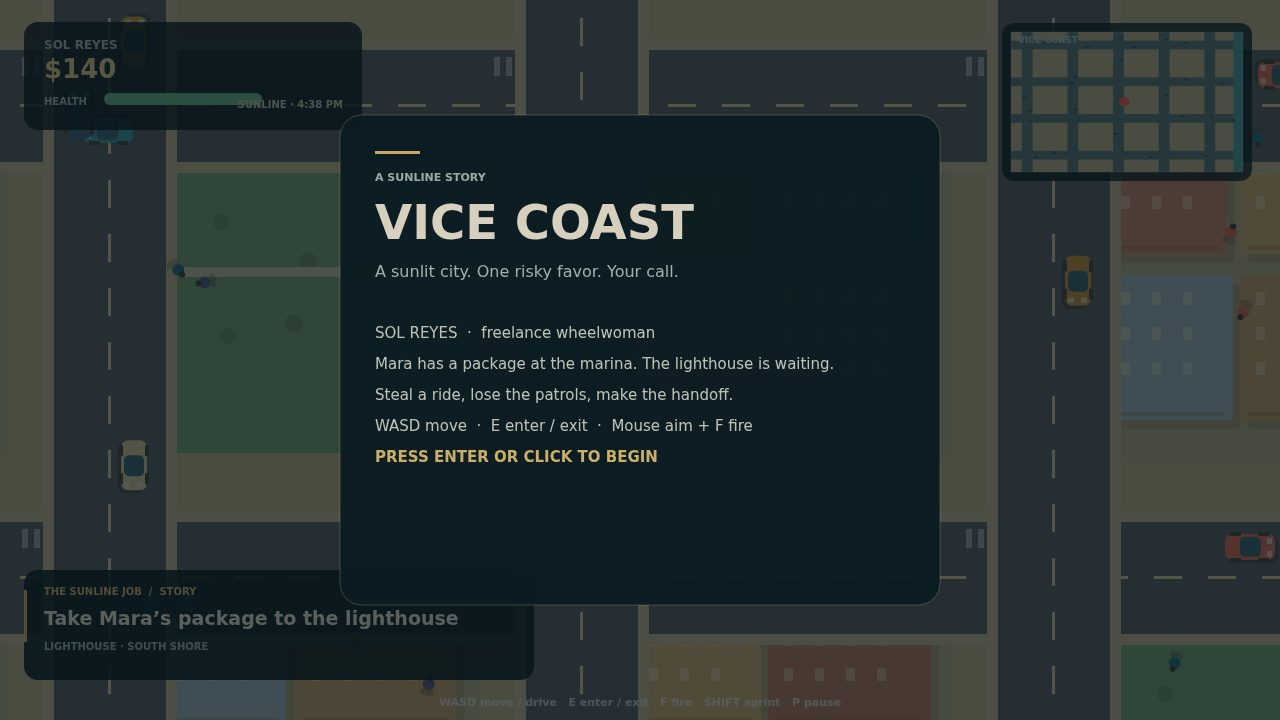
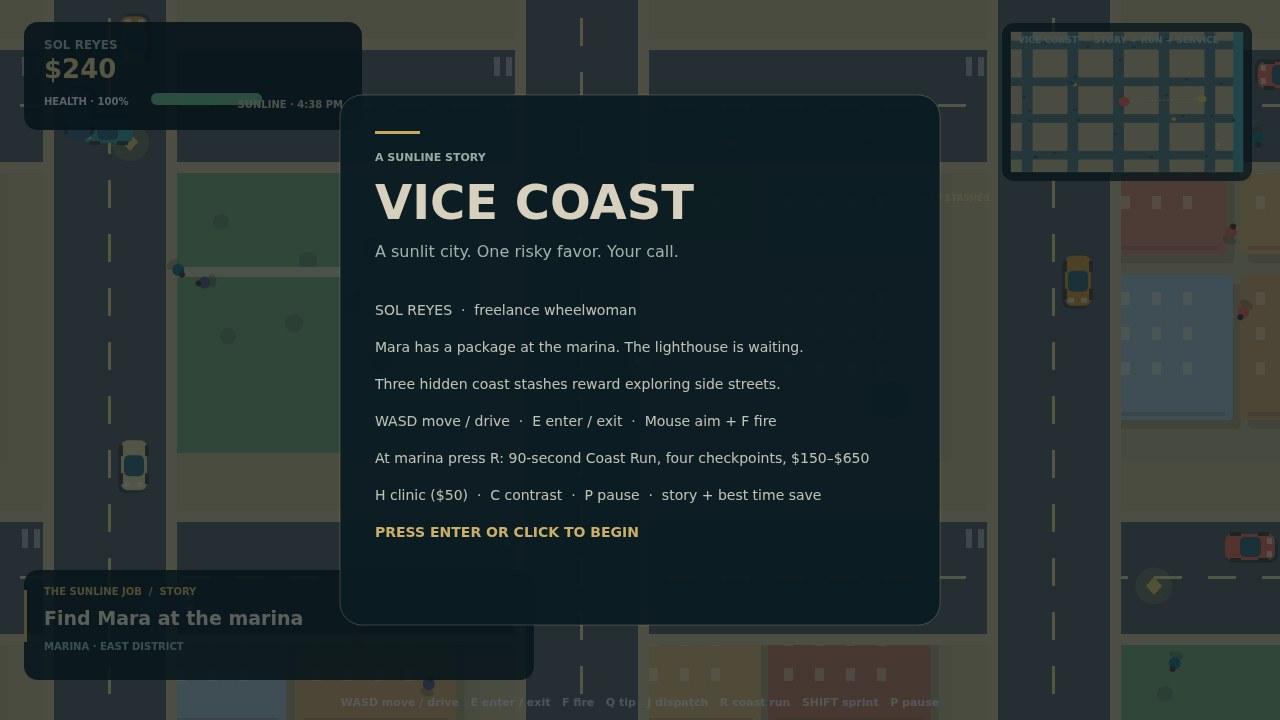
Add city dispatch missions and fresh gameplay captures

diff --git a/game/src/render.js b/game/src/render.js
@@ -35,23 +35,28 @@ export function createRenderer(canvas){
  function randColor(a,b,d,e){return ((a*7+b*13+d*5+e*3)%11)/11;}
  function drawCar(car,police=false){c.save();c.translate(car.x,car.y);c.rotate(car.angle);c.fillStyle='rgba(18,30,35,.3)';roundRect(c,-23,-10,51,26,7);c.fill();c.fillStyle=police?'#f3f0e4':car.color;roundRect(c,-25,-13,50,26,7);c.fill();c.fillStyle=police?'#334c65':'#456d78';roundRect(c,-10,-10,21,20,5);c.fill();c.fillStyle='rgba(235,246,218,.7)';c.fillRect(17,-9,5,6);c.fillRect(17,4,5,6);c.fillStyle='#51483b';c.fillRect(-20,-15,11,4);c.fillRect(8,-15,11,4);c.fillRect(-20,11,11,4);c.fillRect(8,11,11,4);if(police){c.fillStyle='#ec665b';c.fillRect(-2,-15,5,4);c.fillStyle='#4ca2cf';c.fillRect(3,-15,5,4);}c.restore();}
  function drawPerson(p,player=false,time=0,highContrast=false){c.save();c.translate(p.x,p.y);if(!player)c.rotate(p.angle);c.fillStyle='rgba(50,49,38,.24)';c.beginPath();c.ellipse(1,8,7,4,0,0,6.3);c.fill();c.fillStyle=player?'#f2eee2':['#e96e58','#2b7580','#deae54','#615f83'][Math.floor((p.phase||time)*3)%4];c.beginPath();c.arc(0,0,player?7:6,0,6.3);c.fill();c.fillStyle='#543e34';c.beginPath();c.arc(0,-6,3,0,6.3);c.fill();if(player){c.fillStyle='#f3d56e';c.beginPath();c.arc(0,0,highContrast?15:10,0,6.3);c.strokeStyle=highContrast?'#ffffff':'#fff0aa';c.lineWidth=highContrast?4:2;c.stroke();}c.restore();}
+ // Service pins pulse independently from story markers so color and shape both identify active work.
+ function drawDispatchPin(a,time){c.save();c.translate(a.x,a.y);const pulse=1+Math.sin(time*5)*.13;c.globalAlpha=.25;c.fillStyle=a.marker;c.beginPath();c.arc(0,0,27*pulse,0,6.3);c.fill();c.globalAlpha=1;c.fillStyle=a.marker;c.beginPath();c.moveTo(0,-20);c.lineTo(14,-5);c.lineTo(12,12);c.lineTo(0,23);c.lineTo(-12,12);c.lineTo(-14,-5);c.closePath();c.fill();c.fillStyle='#173039';c.font='800 12px system-ui';c.textAlign='center';c.fillText('!',0,6);c.restore();}
  function drawStash(a,time){c.save();c.translate(a.x,a.y);const pulse=1+Math.sin(time*4+a.value)*.12;c.globalAlpha=.92;c.fillStyle='rgba(255,217,112,.18)';c.beginPath();c.arc(0,0,20*pulse,0,6.3);c.fill();c.rotate(time*.45);c.fillStyle='#f4d26d';c.beginPath();c.moveTo(0,-9);c.lineTo(8,0);c.lineTo(0,9);c.lineTo(-8,0);c.closePath();c.fill();c.restore();}
- function minimap(s){const x=1002,y=23,ww=250,hh=158;c.fillStyle='rgba(9,24,31,.78)';roundRect(c,x,y,ww,hh,12);c.fill();c.save();c.beginPath();c.rect(x+9,y+9,ww-18,hh-18);c.clip();c.translate(x+9,y+9);c.scale((ww-18)/WORLD.w,(hh-18)/WORLD.h);c.fillStyle='#cfbd91';c.fillRect(0,0,WORLD.w,WORLD.h);c.fillStyle='#65807c';for(let i=0;i<5;i++)c.fillRect(0,112+i*472,WORLD.w,112);for(let i=0;i<6;i++)c.fillRect(112+i*472,0,112,WORLD.h);c.fillStyle='#55aaa9';c.fillRect(2300,0,100,1800);c.strokeStyle='rgba(249,211,119,.82)';c.lineWidth=13;c.setLineDash([24,16]);const goal=s.story===0?s.mara:s.story===1?s.drop:null;if(goal){c.beginPath();c.moveTo(s.player.x,s.player.y);c.lineTo(goal.x,goal.y);c.stroke();}const run=s.courier;if(run.phase==='active'){c.strokeStyle='rgba(255,139,94,.95)';c.lineWidth=15;c.setLineDash([20,12]);c.beginPath();c.moveTo(s.player.x,s.player.y);for(let i=run.checkpoint;i<run.route.length;i++)c.lineTo(run.route[i].x,run.route[i].y);c.stroke();}c.setLineDash([]);s.pickups.forEach(a=>{if(!a.found){c.fillStyle='#f4d26d';c.fillRect(a.x-20,a.y-20,40,40);}});c.fillStyle='#315c79';s.cars.forEach(a=>c.fillRect(a.x-18,a.y-12,36,24));c.fillStyle='#f4e7a1';s.police.forEach(a=>{c.beginPath();c.arc(a.x,a.y,36,0,6.3);c.fill();});if(goal){c.fillStyle='#f4d26d';c.beginPath();c.arc(goal.x,goal.y,46,0,6.3);c.fill();}if(run.phase==='active'){const gate=run.route[run.checkpoint];if(gate){c.fillStyle='#ff895e';c.beginPath();c.arc(gate.x,gate.y,54,0,6.3);c.fill();}}c.fillStyle='#ff6658';c.beginPath();c.arc(s.player.x,s.player.y,57,0,6.3);c.fill();c.restore();c.strokeStyle='rgba(255,255,255,.18)';c.lineWidth=1;c.strokeRect(x+9,y+9,ww-18,hh-18);text('VICE COAST  ·  STORY + RUN',x+16,y+20,9,'#b6d5cc','left',800);}
+ function minimap(s){const x=1002,y=23,ww=250,hh=158;c.fillStyle='rgba(9,24,31,.78)';roundRect(c,x,y,ww,hh,12);c.fill();c.save();c.beginPath();c.rect(x+9,y+9,ww-18,hh-18);c.clip();c.translate(x+9,y+9);c.scale((ww-18)/WORLD.w,(hh-18)/WORLD.h);c.fillStyle='#cfbd91';c.fillRect(0,0,WORLD.w,WORLD.h);c.fillStyle='#65807c';for(let i=0;i<5;i++)c.fillRect(0,112+i*472,WORLD.w,112);for(let i=0;i<6;i++)c.fillRect(112+i*472,0,112,WORLD.h);c.fillStyle='#55aaa9';c.fillRect(2300,0,100,1800);c.strokeStyle='rgba(249,211,119,.82)';c.lineWidth=13;c.setLineDash([24,16]);const goal=s.story===0?s.mara:s.story===1?s.drop:null;if(goal){c.beginPath();c.moveTo(s.player.x,s.player.y);c.lineTo(goal.x,goal.y);c.stroke();}const dispatch=s.dispatch,call=dispatch.active;if(call){const target=call.kind==='medical'?call.pickup:call;c.strokeStyle='rgba(255,255,255,.8)';c.lineWidth=13;c.setLineDash([20,14]);c.beginPath();c.moveTo(s.player.x,s.player.y);c.lineTo(target.x,target.y);c.stroke();c.setLineDash([]);c.fillStyle=call.marker;c.beginPath();c.arc(target.x,target.y,52,0,6.3);c.fill();}
+ const run=s.courier;if(run.phase==='active'){c.strokeStyle='rgba(255,139,94,.95)';c.lineWidth=15;c.setLineDash([20,12]);c.beginPath();c.moveTo(s.player.x,s.player.y);for(let i=run.checkpoint;i<run.route.length;i++)c.lineTo(run.route[i].x,run.route[i].y);c.stroke();}c.setLineDash([]);s.pickups.forEach(a=>{if(!a.found){c.fillStyle='#f4d26d';c.fillRect(a.x-20,a.y-20,40,40);}});if(s.pulseTarget&&s.pulseTime>0){c.strokeStyle='#fff3a6';c.lineWidth=34;c.beginPath();c.arc(s.pulseTarget.x,s.pulseTarget.y,48,0,6.3);c.stroke();}c.fillStyle='#315c79';s.cars.forEach(a=>c.fillRect(a.x-18,a.y-12,36,24));c.fillStyle='#f4e7a1';s.police.forEach(a=>{c.beginPath();c.arc(a.x,a.y,36,0,6.3);c.fill();});if(s.dispatch.active){const d=s.dispatch.active,target=d.kind==='medical'?d.pickup:d;c.fillStyle=d.marker;c.beginPath();c.arc(target.x,target.y,50,0,6.3);c.fill();}if(goal){c.fillStyle='#f4d26d';c.beginPath();c.arc(goal.x,goal.y,46,0,6.3);c.fill();}if(run.phase==='active'){const gate=run.route[run.checkpoint];if(gate){c.fillStyle='#ff895e';c.beginPath();c.arc(gate.x,gate.y,54,0,6.3);c.fill();}}c.fillStyle='#ff6658';c.beginPath();c.arc(s.player.x,s.player.y,57,0,6.3);c.fill();c.restore();c.strokeStyle='rgba(255,255,255,.18)';c.lineWidth=1;c.strokeRect(x+9,y+9,ww-18,hh-18);text('VICE COAST  ·  STORY + RUN + SERVICE',x+16,y+20,9,'#b6d5cc','left',800);}
  function drawHud(s){const p=s.player,contrast=s.highContrast;c.fillStyle=contrast?'#000':'rgba(12,25,31,.92)';roundRect(c,24,22,338,108,14);c.fill();if(contrast){c.strokeStyle='#fff';c.lineWidth=2;c.stroke();}text('SOL REYES',44,49,12,'#b4c7c0','left',800);text('$'+p.cash.toLocaleString(),44,78,26,'#f4dc92','left',750);text(`HEALTH · ${Math.ceil(p.health)}%`,44,105,10,'#fff','left',700);c.fillStyle='#2b454a';roundRect(c,151,93,111,12,6);c.fill();c.fillStyle=p.health<35?'#ef6859':'#77c28f';roundRect(c,151,93,111*p.health/100,12,6);c.fill();text('SUNLINE · 4:38 PM',343,108,10,'#d6d0b6','right',600);
   if(s.heat>0){text(`WANTED · ${s.heat}/5`,1148,214,12,'#fff','right',800);for(let i=0;i<5;i++)text('✦',1162+i*19,238,18,i<s.heat?'#ff755e':'#8b9998','center',700);}
   c.fillStyle='rgba(14,29,35,.9)';roundRect(c,24,570,510,110,14);c.fill();c.fillStyle='#eebf66';c.fillRect(24,590,3,52);text(s.missionDone?'THE SUNLINE JOB  /  COMPLETE':'THE SUNLINE JOB  /  STORY',44,595,10,'#e8bd72','left',800);text(s.missionText,44,625,19,'#fff6df','left',700);text(s.story===0?'MARINA · EAST DISTRICT':'LIGHTHOUSE · SOUTH SHORE',44,650,10,'#a9c6bc','left',600);
+  if(s.dispatch.active){const d=s.dispatch.active,target=d.kind==='medical'?d.pickup:d;drawDispatchPin(target,s.clock);}
   const unclaimed=s.pickups.filter(a=>!a.found).length;text(`${unclaimed} COAST STASH${unclaimed===1?'':'ES'}`,990,201,9,'#f3d98d','right',750);
+  const call=s.dispatch.active;if(call){const target=call.kind==='medical'?call.pickup:call,left=Math.max(0,call.remaining),distance=Math.round(Math.hypot(target.x-p.x,target.y-p.y));c.fillStyle=contrast?'#000':'rgba(14,43,45,.97)';roundRect(c,390,91,500,76,12);c.fill();if(contrast){c.strokeStyle='#fff';c.lineWidth=2;c.stroke();}text(`CITY DISPATCH · ${left.toFixed(0)}s · ${distance}m · $${call.payout}`,640,118,12,call.marker,'center',800);text(call.kind==='witness'?`${call.brief} · ${Math.min(12,call.serviceTime).toFixed(1)}/12s`:call.brief,640,148,16,'#fff1dc','center',700);}else if(s.screen==='play'){const complete=Object.values(s.dispatch.completed).reduce((sum,n)=>sum+n,0),cooling=Object.values(s.dispatch.cooldowns).some(t=>t>0);c.fillStyle=contrast?'#000':'rgba(14,43,45,.9)';roundRect(c,456,91,368,46,11);c.fill();if(contrast){c.strokeStyle='#fff';c.lineWidth=2;c.stroke();}text(`J  ${cooling?'REQUEST CITY CALL  ·  SOME LINES COOLING':'REQUEST CITY DISPATCH'}  ·  ${complete} COMPLETE`,640,120,11,'#c6e7dc','center',750);}
   const run=s.courier;if(run.phase==='active'){const gate=run.route[run.checkpoint],left=Math.max(0,90-run.elapsed),payout=Math.max(150,Math.round(650-run.elapsed*8));c.fillStyle=contrast?'#000':'rgba(47,24,24,.96)';roundRect(c,390,91,500,76,12);c.fill();if(contrast){c.strokeStyle='#fff';c.lineWidth=2;c.stroke();}text(`COAST RUN · ${left.toFixed(1)}s LEFT · $${payout} IF FINISHED NOW`,640,118,12,'#fff','center',800);text(`CHECKPOINT ${run.checkpoint+1}/${run.route.length} · ${gate?.name||'Finish'}`,640,148,18,'#fff1dc','center',700);}else if(Math.hypot(p.x-s.anchor.x,p.y-s.anchor.y)<100){text(run.phase==='done'?`R  REPLAY COAST RUN  ·  BEST ${run.best.toFixed(1)}s`:'R  START COAST RUN  ·  90 SECOND DELIVERY',640,539,13,'#ffc18e','center',800);}
   if(s.toastTime>0){c.fillStyle='rgba(19,37,42,.92)';roundRect(c,390,30,500,48,12);c.fill();text(s.toast,640,60,15,'#fff0cd','center',650);}
   if(p.inCar>=0){c.fillStyle='rgba(13,28,34,.8)';roundRect(c,24,145,175,52,12);c.fill();text('ROADSTER  ·  '+Math.round(Math.abs(s.cars[p.inCar].speed))+' MPH',42,177,12,'#fff1d7','left',750);}
-  minimap(s);text('WASD move / drive   E enter / exit   F fire   R coast run at marina   SHIFT sprint   P pause',640,706,11,'rgba(255,255,255,.72)','center',550);
+  minimap(s);text('WASD move / drive   E enter / exit   F fire   Q tip   J dispatch   R coast run   SHIFT sprint   P pause',640,706,11,'rgba(255,255,255,.72)','center',550);
  }
  function panel(title,sub,rows){c.fillStyle='rgba(7,20,27,.60)';c.fillRect(0,0,1280,720);c.fillStyle='rgba(12,29,36,.95)';roundRect(c,340,95,600,530,22);c.fill();c.strokeStyle='rgba(242,212,153,.28)';c.lineWidth=1;c.stroke();c.fillStyle='#efc46f';c.fillRect(375,131,45,3);text('A SUNLINE STORY',375,161,11,'#b8c8bb','left',800);text(title,375,219,48,'#fff5de','left',800);text(sub,375,257,16,'#bdd0c7','left',500);rows.forEach((r,i)=>text(r,375,315+i*37,14,i===rows.length-1?'#f1cc78':'#e2e4d5','left',i===rows.length-1?700:500));}
  function draw(game){const s=game.state,p=s.player;const camX=clamp(p.x-640,0,WORLD.w-1280),camY=clamp(p.y-360,0,WORLD.h-720);c.setTransform(dpr*scale,0,0,dpr*scale,(w-1280*scale)*dpr/2,(h-720*scale)*dpr/2);c.fillStyle='#b8a478';c.fillRect(0,0,1280,720);c.save();c.translate(-camX,-camY);worldMap(s,{x:camX,y:camY});
    // landmarks
    c.fillStyle='#f4e4b1';roundRect(c,1152,1510,92,70,10);c.fill();text('MARINA',1198,1552,11,'#436361','center',800);c.fillStyle='#fae6aa';c.beginPath();c.arc(2160,1660,29,0,6.3);c.fill();c.fillStyle='#e18459';c.fillRect(2155,1638,10,30);c.fillStyle='#f5e3b2';text('LIGHTHOUSE',2160,1705,10,'#345d5f','center',800);
    const goal=s.story===0?s.mara:s.story===1?s.drop:null;if(goal){const pulse=22+Math.sin(s.clock*3)*5;c.strokeStyle='#f7d175';c.lineWidth=3;c.beginPath();c.arc(goal.x,goal.y,pulse,0,6.3);c.stroke();c.fillStyle='rgba(245,204,104,.16)';c.beginPath();c.arc(goal.x,goal.y,pulse+8,0,6.3);c.fill();}
-   s.pickups.forEach(a=>{if(!a.found)drawStash(a,s.clock);});s.cars.forEach((a,i)=>drawCar(a));s.people.forEach(a=>{if(a.alive)drawPerson(a,false,s.clock);});s.police.forEach(a=>{drawCar(a,true);const flash=(Math.floor(s.clock*5)%2===0);c.fillStyle=flash?'rgba(255,85,75,.22)':'rgba(73,174,224,.2)';c.beginPath();c.arc(a.x,a.y,29,0,6.3);c.fill();});s.shots.forEach(b=>{c.fillStyle='#ffe48c';c.beginPath();c.arc(b.x,b.y,4,0,6.3);c.fill();});if(p.inCar<0){if(p.invuln<=0||Math.floor(s.clock*14)%2===0)drawPerson(p,true,s.clock,s.highContrast);}c.restore();
+   s.pickups.forEach(a=>{if(!a.found)drawStash(a,s.clock);});if(s.pulseTarget&&s.pulseTime>0){const a=s.pulseTarget,r=34+Math.sin(s.clock*7)*7;c.strokeStyle='rgba(255,232,148,.9)';c.lineWidth=4;c.beginPath();c.arc(a.x,a.y,r,0,6.3);c.stroke();c.strokeStyle='rgba(255,232,148,.35)';c.lineWidth=2;c.beginPath();c.arc(a.x,a.y,r+11,0,6.3);c.stroke();}s.cars.forEach((a,i)=>drawCar(a));s.people.forEach(a=>{if(a.alive)drawPerson(a,false,s.clock);});s.police.forEach(a=>{drawCar(a,true);const flash=(Math.floor(s.clock*5)%2===0);c.fillStyle=flash?'rgba(255,85,75,.22)':'rgba(73,174,224,.2)';c.beginPath();c.arc(a.x,a.y,29,0,6.3);c.fill();});s.shots.forEach(b=>{c.fillStyle='#ffe48c';c.beginPath();c.arc(b.x,b.y,4,0,6.3);c.fill();});if(p.inCar<0){if(p.invuln<=0||Math.floor(s.clock*14)%2===0)drawPerson(p,true,s.clock,s.highContrast);}c.restore();
    drawHud(s);if(s.highContrast){c.strokeStyle='#fff';c.lineWidth=2;c.strokeRect(18,16,1244,688);text('HIGH CONTRAST · C TO TOGGLE',640,24,10,'#fff','center',800);}if(s.screen==='title')panel('VICE COAST','A sunlit city. One risky favor. Your call.', ['SOL REYES  ·  freelance wheelwoman','Mara has a package at the marina. The lighthouse is waiting.','Three hidden coast stashes reward exploring side streets.','WASD move / drive  ·  E enter / exit  ·  Mouse aim + F fire','At marina press R: 90-second Coast Run, four checkpoints, $150–$650','H clinic ($50)  ·  C contrast  ·  P pause  ·  story + best time save','PRESS ENTER OR CLICK TO BEGIN']);if(s.screen==='paused')panel('PAUSED','The coast can wait.', ['Your position, cash and discoveries are saved on this device.','Coast Run: press R at marina; follow the orange checkpoints before time runs out.','Press P, ENTER or click to return to the city.  ESC returns to title.']);if(s.screen==='title'||s.screen==='paused'){c.fillStyle='rgba(8,20,26,.16)';c.fillRect(0,0,1280,720);}
  }
  return {draw,resize};

diff --git a/game/src/world.js b/game/src/world.js
@@ -23,19 +23,34 @@ export function makeWorld() {
     const c={x:horizontal?rand(i+90)*WORLD.w:112+lane*472+(i%3?80:25), y:horizontal?112+lane*472+(i%3?80:25):rand(i+30)*WORLD.h,
       angle:horizontal?(i%4<2?0:Math.PI):(i%4<2?Math.PI/2:-Math.PI/2), speed:36+rand(i+3)*34, color:['#ef6f58','#e9d49d','#43a6a6','#4b6481','#c7c5bb','#d99a3b'][i%6], type:i%5===0?'van':'car', driver:true, stolen:false, bump:0}; cars.push(c);
   }
-  const state={player,cars,people,police,shots,pickups,heat:0,heatTimer:0,policeEvaded:false,story:0,missionText:'Find Mara at the marina',missionDone:false,clock:0,toast:'',toastTime:0,paused:false,screen:'title',seed:1,highContrast:false};
+  // Stable procedural offsets keep each caller on a different block while preserving reproducible offline saves.
+  const callSpot=(seed,roadX,roadY)=>({x:clamp(roadX+18+rand(seed)*66,20,WORLD.w-20),y:clamp(roadY+18+rand(seed+3)*66,20,WORLD.h-20)});
+  const stranded=callSpot(41,112+472,112+472),medical=callSpot(53,112+472*3,112+472*2),witness=callSpot(67,112+472*4,112+472*3);
+  const dispatchCalls=[
+    {id:'stranded',name:'Stranded driver',brief:'Jump-start the stranded driver',kind:'service',...stranded,marker:'#f3c866',payout:180,cooldown:60,deadline:75},
+    {id:'medical',name:'Medical pickup',brief:'Reach the injured caller',kind:'medical',...medical,pickup:{x:medical.x+78,y:medical.y},marker:'#77d6c2',payout:260,cooldown:75,deadline:90},
+    {id:'witness',name:'Street race witness',brief:'Stay with the witness for 12 seconds',kind:'witness',...witness,marker:'#f08b69',payout:320,cooldown:90,deadline:70},
+  ];
+  const state={player,cars,people,police,shots,pickups,dispatch:{calls:dispatchCalls,active:null,cooldowns:{},completed:{}},heat:0,heatTimer:0,policeEvaded:false,story:0,missionText:'Find Mara at the marina',missionDone:false,clock:0,toast:'',toastTime:0,paused:false,screen:'title',seed:1,highContrast:false,pulseCooldown:0,pulseTime:0,pulseTarget:null};
   state.anchor={x:1196,y:1550}; state.drop={x:2160,y:1660}; state.mara={x:1975,y:860};
   state.courier={phase:'ready',startedAt:0,elapsed:0,best:0,reward:0,checkpoint:0,
     route:[{x:1196,y:1550,name:'Marina gate'},{x:1720,y:1360,name:'Canal bend'},{x:2145,y:1450,name:'Lighthouse road'},{x:2160,y:1660,name:'Beacon steps'}]};
+  // Dispatch is deliberately local: accept a radio call with J, then follow its world/minimap marker.
+  function requestDispatch(){const d=state.dispatch;if(d.active){message(`${d.active.name} · ${Math.ceil(d.active.remaining)}s remaining`);return;}const choices=d.calls.filter(call=>(d.cooldowns[call.id]||0)<=0);if(!choices.length){message('Dispatch channel cooling down · check back shortly.');return;}const call=choices[(Math.floor(state.clock/17)+Object.keys(d.completed).length)%choices.length];d.active={...call,remaining:call.deadline,serviceTime:0};message(`DISPATCH · ${call.name}: ${call.brief}`,4);}
   function message(s,t=3){state.toast=String(s);state.toastTime=Math.max(0,Number.isFinite(t)?t:3);}
   function beginCourier(){const run=state.courier;if(dist(player,state.anchor)>100){message('Coast Run starts at the marina gate.');return;}if(run.phase==='active'){const next=run.route[run.checkpoint];message(next?`Next checkpoint: ${next.name}`:'Coast Run is finishing.');return;}run.phase='active';run.startedAt=state.clock;run.elapsed=0;run.checkpoint=0;run.reward=0;message('COAST RUN · hit each gold checkpoint in order',4);}
+  function pulse(){if(state.pulseCooldown>0){message(`Streetwise pulse recharges in ${Math.ceil(state.pulseCooldown)}s`,1.5);return;}const target=pickups.filter(a=>!a.found).sort((a,b)=>dist(player,a)-dist(player,b))[0];if(!target){message('No coast stashes left to find.');return;}state.pulseTarget=target;state.pulseTime=8;state.pulseCooldown=24;message(`Local tip: ${target.label} is ${Math.round(dist(player,target))}m away · follow the gold ring`,3);}
   function nearestCar(max=58){let best=-1,bd=max;cars.forEach((c,i)=>{if(i===player.inCar)return;const d=dist(player,c);if(d<bd){bd=d;best=i;}});return best;}
   function enterExit(){const p=player;if(p.inCar>=0){const c=cars[p.inCar];p.x=c.x+Math.cos(c.angle+Math.PI/2)*35;p.y=c.y+Math.sin(c.angle+Math.PI/2)*35;c.driver=false;p.inCar=-1;message('On foot. Stay sharp.');return;}
     const i=nearestCar();if(i<0){message('Get closer to a vehicle.');return;}const c=cars[i];p.inCar=i;c.driver=true;p.angle=c.angle;if(!c.stolen){c.stolen=true;raiseHeat(1);message('Vehicle acquired · heat rising');}else message('Back behind the wheel.');}
   function raiseHeat(n){state.heat=clamp(state.heat+n,0,5);state.heatTimer=18;state.policeEvaded=false;}
   function fire(){const p=player;if(p.inCar>=0){message('Exit the vehicle to aim.');return;}if(shots.length>=8){message('Let the last shot clear before firing again.',1.4);return;}const target=globalThis.__aim||{x:p.x+Math.cos(p.angle)*300,y:p.y+Math.sin(p.angle)*300};const a=Math.atan2(target.y-p.y,target.x-p.x);p.angle=a;shots.push({x:p.x+Math.cos(a)*20,y:p.y+Math.sin(a)*20,vx:Math.cos(a)*560,vy:Math.sin(a)*560,life:1});raiseHeat(1);message('Shot fired · police alerted',2);}
-  function update(dt,input={}){dt=Number.isFinite(dt)?clamp(dt,0,.05):0;const s=state,p=player;input??={};s.clock+=dt;if(s.toastTime>0)s.toastTime=Math.max(0,s.toastTime-dt);if(p.invuln>0)p.invuln=Math.max(0,p.invuln-dt);
+  function update(dt,input={}){dt=Number.isFinite(dt)?clamp(dt,0,.05):0;const s=state,p=player;input??={};s.clock+=dt;if(s.toastTime>0)s.toastTime=Math.max(0,s.toastTime-dt);if(p.invuln>0)p.invuln=Math.max(0,p.invuln-dt);s.pulseCooldown=Math.max(0,s.pulseCooldown-dt);Object.keys(s.dispatch.cooldowns).forEach(id=>s.dispatch.cooldowns[id]=Math.max(0,s.dispatch.cooldowns[id]-dt));s.pulseTime=Math.max(0,s.pulseTime-dt);if(s.pulseTime===0)s.pulseTarget=null;
     const run=s.courier;if(run.phase==='active'){run.elapsed=s.clock-run.startedAt;const gate=run.route[run.checkpoint];if(gate&&dist(p,gate)<58){run.checkpoint++;if(run.checkpoint===run.route.length){run.phase='done';run.best=run.best?Math.min(run.best,run.elapsed):run.elapsed;run.reward=Math.max(150,Math.round(650-run.elapsed*8));p.cash+=run.reward;message(`COAST RUN COMPLETE · ${run.elapsed.toFixed(1)}s · $${run.reward} paid`,5);}else message(`CHECKPOINT ${run.checkpoint}/${run.route.length} · ${run.route[run.checkpoint].name}`,2.5);}if(run.phase==='active'&&run.elapsed>=90){run.phase='ready';run.elapsed=0;run.checkpoint=0;message('Coast run timed out · press R at the marina to retry',4);}}
+    // Dispatch deadlines run on the same fixed-step clock as driving and story objectives.
+    const call=s.dispatch.active;if(call){call.remaining-=dt;const target=call.kind==='medical'?call.pickup:call;if(call.kind==='witness')call.serviceTime=dist(p,target)<68?call.serviceTime+dt:0;else if(call.kind==='service'&&dist(p,target)<56)call.serviceTime=1;else if(call.kind==='medical'&&dist(p,target)<62)call.serviceTime=1;
+      if(call.serviceTime>= (call.kind==='witness'?12:1)){const reward=call.payout;p.cash+=reward;s.dispatch.completed[call.id]=(s.dispatch.completed[call.id]||0)+1;s.dispatch.cooldowns[call.id]=call.cooldown;s.dispatch.active=null;message(`${call.name.toUpperCase()} COMPLETE · $${reward} paid`,5);}
+      else if(call.remaining<=0){s.dispatch.cooldowns[call.id]=Math.max(30,call.cooldown/2);s.dispatch.active=null;message(`${call.name} timed out · call back after cooldown`,4);}}
     if(s.heat>0&&s.policeEvaded){s.heatTimer-=dt;if(s.heatTimer<=0){s.heat=Math.max(0,s.heat-1);s.heatTimer=10;if(s.heat)message('Stay quiet · wanted level falling.',2);else{s.policeEvaded=false;message('Police heat cleared.',3);}}}
     if(s.heat>0&&!s.policeEvaded&&s.police.length<Math.min(5,Math.ceil(s.heat))&&s.clock%4<dt){const a=s.clock*1.9;police.push({x:clamp(p.x+Math.cos(a)*520,40,WORLD.w-40),y:clamp(p.y+Math.sin(a)*430,40,WORLD.h-40),angle:a+Math.PI,speed:104+14*s.heat,flash:s.clock,lostTime:0});}
     people.forEach((n,i)=>{if(!n.alive)return;n.phase+=dt;if(p.inCar>=0&&dist(n,p)<24){n.alive=false;raiseHeat(1);message('Pedestrian struck · wanted level increased');p.health=Math.max(10,p.health-8);return;}if(Math.floor(n.phase*1.4)%4===0)n.angle+=Math.sin(n.phase+i)*dt*1.1;n.x+=Math.cos(n.angle)*n.pace*dt;n.y+=Math.sin(n.angle)*n.pace*dt;if(n.x<8||n.x>WORLD.w-8){n.x=clamp(n.x,8,WORLD.w-8);n.angle=Math.PI-n.angle;}if(n.y<8||n.y>WORLD.h-8){n.y=clamp(n.y,8,WORLD.h-8);n.angle=-n.angle;}});
@@ -50,5 +65,5 @@ export function makeWorld() {
     for(const stash of pickups){if(!stash.found&&dist(p,stash)<34){stash.found=true;p.cash+=stash.value;message(`${stash.label} stash · $${stash.value} collected`,2.6);}}
     if(p.health<=0){if(p.inCar>=0){const car=cars[p.inCar];if(car){car.driver=false;car.speed=0;}}p.health=100;p.x=1170;p.y=894;p.cash=Math.max(0,p.cash-100);p.inCar=-1;s.heat=0;s.heatTimer=0;s.policeEvaded=false;police.length=0;message('Recovered at the clinic · $100 fee');}
   }
-  return {state,update,enterExit,fire,raiseHeat,message,nearestCar,beginCourier};
+  return {state,update,enterExit,fire,raiseHeat,message,nearestCar,beginCourier,pulse,requestDispatch};
 }

diff --git a/game/src/main.js b/game/src/main.js
@@ -4,8 +4,8 @@ import { createRenderer } from './render.js';
 const canvas=document.querySelector('#game'),status=document.querySelector('#status');
 const game=makeWorld(),renderer=createRenderer(canvas),keys=new Set();let last=performance.now(),acc=0,mouse={x:0,y:0};
 const SAVE='sunline.vicecoast.save.v1';
-function save(){try{const s=game.state,r=s.courier;localStorage.setItem(SAVE,JSON.stringify({version:2,x:s.player.x,y:s.player.y,cash:s.player.cash,health:s.player.health,story:s.story,found:s.pickups.map(p=>p.found),courier:{best:r.best,phase:r.phase==='done'?'done':'ready'}}));}catch{}}
-function load(){try{const a=JSON.parse(localStorage.getItem(SAVE)||'null');if(!a||typeof a!=='object')return;const s=game.state;s.player.x=Number.isFinite(a.x)?Math.max(8,Math.min(2392,a.x)):s.player.x;s.player.y=Number.isFinite(a.y)?Math.max(8,Math.min(1792,a.y)):s.player.y;s.player.cash=Number.isFinite(a.cash)?Math.max(0,a.cash):s.player.cash;s.player.health=Number.isFinite(a.health)?Math.max(1,Math.min(100,a.health)):s.player.health;s.story=Math.max(0,Math.min(2,Number(a.story)||0));s.pickups.forEach((p,i)=>{p.found=Boolean(a.found?.[i]);});const savedRun=a.courier;if(savedRun&&Number.isFinite(savedRun.best)&&savedRun.best>0){s.courier.best=savedRun.best;s.courier.phase=savedRun.phase==='done'?'done':'ready';}s.heat=0;s.missionDone=s.story>=2;s.missionText=s.story===0?'Find Mara at the marina':s.story===1?'Take Mara’s package to the lighthouse':'Job complete · $850 deposited';}catch{}}
+function save(){try{const s=game.state,r=s.courier;localStorage.setItem(SAVE,JSON.stringify({version:2,x:s.player.x,y:s.player.y,cash:s.player.cash,health:s.player.health,story:s.story,found:s.pickups.map(p=>p.found),courier:{best:r.best,phase:r.phase==='done'?'done':'ready'},dispatchCompleted:s.dispatch.completed}));}catch{}}
+function load(){try{const a=JSON.parse(localStorage.getItem(SAVE)||'null');if(!a||typeof a!=='object')return;const s=game.state;s.player.x=Number.isFinite(a.x)?Math.max(8,Math.min(2392,a.x)):s.player.x;s.player.y=Number.isFinite(a.y)?Math.max(8,Math.min(1792,a.y)):s.player.y;s.player.cash=Number.isFinite(a.cash)?Math.max(0,a.cash):s.player.cash;s.player.health=Number.isFinite(a.health)?Math.max(1,Math.min(100,a.health)):s.player.health;s.story=Math.max(0,Math.min(2,Number(a.story)||0));s.pickups.forEach((p,i)=>{p.found=Boolean(a.found?.[i]);});const savedRun=a.courier;if(savedRun&&Number.isFinite(savedRun.best)&&savedRun.best>0){s.courier.best=savedRun.best;s.courier.phase=savedRun.phase==='done'?'done':'ready';}if(a.dispatchCompleted&&typeof a.dispatchCompleted==='object'){for(const call of s.dispatch.calls){const count=Number(a.dispatchCompleted[call.id]);if(Number.isFinite(count))s.dispatch.completed[call.id]=Math.max(0,Math.min(999,count));}}s.heat=0;s.missionDone=s.story>=2;s.missionText=s.story===0?'Find Mara at the marina':s.story===1?'Take Mara’s package to the lighthouse':'Job complete · $850 deposited';}catch{}}
 load();
 let audio=null;
 function beep(kind='click'){try{audio??=new AudioContext();if(audio.state==='suspended')audio.resume();const o=audio.createOscillator(),g=audio.createGain();o.connect(g);g.connect(audio.destination);const now=audio.currentTime;o.type=kind==='alarm'?'sawtooth':'triangle';o.frequency.setValueAtTime(kind==='shot'?210:kind==='alarm'?460:520,now);o.frequency.exponentialRampToValueAtTime(kind==='shot'?75:kind==='alarm'?290:760,now+.12);g.gain.setValueAtTime(.045,now);g.gain.exponentialRampToValueAtTime(.001,now+.16);o.start(now);o.stop(now+.17);}catch{}}
@@ -13,7 +13,7 @@ function setScreen(name){game.state.screen=name;status.textContent=name==='pause
 function start(){setScreen('play');status.textContent='Vice Coast. Find Mara at the marina.';beep();}
 window.addEventListener('keydown',e=>{if(['ArrowUp','ArrowDown','ArrowLeft','ArrowRight','Space'].includes(e.code))e.preventDefault();keys.add(e.code);if(e.repeat)return;
  if(game.state.screen==='title'&&(e.code==='Enter'||e.code==='Space'))start();else if(game.state.screen==='paused'&&e.code==='Enter'){setScreen('play');beep();}else if(e.code==='KeyP'||e.code==='Escape'){if(game.state.screen==='play'){setScreen('paused');save();}else if(game.state.screen==='paused'){if(e.code==='Escape'){setScreen('title');save();}else setScreen('play');}beep();}
- if(game.state.screen==='play'){if(e.code==='KeyE'){game.enterExit();beep();}if(e.code==='KeyF'){game.fire();beep('shot');}if(e.code==='KeyR'){game.beginCourier();save();beep();}if(e.code==='KeyC'){game.state.highContrast=!game.state.highContrast;game.message(game.state.highContrast?'High contrast enabled':'High contrast disabled',1.8);beep();}if(e.code==='KeyH'){if(game.state.player.cash>=50){game.state.player.health=100;game.state.player.cash-=50;game.message('Clinic visit · health restored · $50');}else game.message('Clinic visit costs $50');}if(e.code==='KeyM')game.message('Gold marker: story · teal sparks: stashes · orange route: Coast Run');}
+ if(game.state.screen==='play'){if(e.code==='KeyE'){game.enterExit();beep();}if(e.code==='KeyF'){game.fire();beep('shot');}if(e.code==='KeyR'){game.beginCourier();save();beep();}if(e.code==='KeyQ'){game.pulse();beep();}if(e.code==='KeyC'){game.state.highContrast=!game.state.highContrast;game.message(game.state.highContrast?'High contrast enabled':'High contrast disabled',1.8);beep();}if(e.code==='KeyH'){if(game.state.player.cash>=50){game.state.player.health=100;game.state.player.cash-=50;game.message('Clinic visit · health restored · $50');}else game.message('Clinic visit costs $50');}if(e.code==='KeyM')game.message('Gold: story · teal: stashes · orange: Coast Run · bright dispatch pin: service call');if(e.code==='KeyJ'){game.requestDispatch();beep('alarm');}}
 });
 window.addEventListener('keyup',e=>keys.delete(e.code));window.addEventListener('blur',()=>{keys.clear();if(game.state.screen==='play'){setScreen('paused');save();}});
 document.addEventListener('visibilitychange',()=>{keys.clear();if(document.hidden&&game.state.screen==='play'){setScreen('paused');save();}});

diff --git a/game/index.html b/game/index.html
@@ -4,19 +4,20 @@
 <meta charset="utf-8">
 <meta name="viewport" content="width=device-width, initial-scale=1, viewport-fit=cover">
 <meta name="theme-color" content="#101d27">
-<meta name="description" content="Explore Vice Coast, run a timed four-checkpoint coastal delivery, work Mara's story, and outrun patrols offline.">
+<meta name="description" content="Explore Vice Coast, answer three timed city service calls, run Coast Run, work Mara's story, and outrun patrols offline.">
 <title>Sunline: Vice Coast</title>
 <style>
   html, body { margin: 0; width: 100%; height: 100%; overflow: hidden; background: #101d27; }
   body { overscroll-behavior: none; }
   #game { position: fixed; inset: 0; width: 100%; height: 100%; display: block; touch-action: none; outline: none; }
+  #game:focus-visible { outline: 3px solid #f4dc92; outline-offset: -3px; }
   #status, #instructions { position: absolute; width: 1px; height: 1px; overflow: hidden; clip-path: inset(50%); white-space: nowrap; }
 </style>
 </head>
 <body>
 <canvas id="game" tabindex="0" aria-describedby="instructions" aria-label="Sunline: Vice Coast game area"></canvas>
 <p id="status" role="status" aria-live="polite"></p>
-<p id="instructions">Sunline: Vice Coast. Press Enter or click to start. Use WASD or arrow keys to move on foot; in a car, Up accelerates, Down brakes or reverses, and Left or Right steers. Shift sprints on foot. E enters or exits a nearby car. Move the mouse to aim, then click or press F to fire on foot. At the marina gate, press R to start Coast Run: pass Marina gate, Canal bend, Lighthouse road, and Beacon steps in order within 90 seconds. Follow the orange minimap route and the named next checkpoint. Completion pays from $650 down to a $150 minimum; timeout resets the run. H restores health for $50. C toggles the high contrast player outline and screen border. P pauses; Enter or click resumes; Escape returns to the title while paused. M shows the map marker color guide. Find Mara at the marina and deliver her package to the lighthouse. Game progress and Coast Run best time are saved in this browser. The animated canvas and changing HUD are visual and are not fully available to screen readers.</p>
+<p id="instructions">Sunline: Vice Coast. Press Enter or click to start. Use WASD or arrow keys to move on foot; in a car, Up accelerates, Down brakes or reverses, and Left or Right steers. Shift sprints on foot. E enters or exits a nearby car. Move the mouse to aim, then click or press F to fire on foot. Press Q for a local tip that marks the nearest undiscovered coast stash for eight seconds; tips recharge in 24 seconds. Press J to request a city dispatch. Find the stranded driver or injured caller and move close to complete the pickup; stay beside the street race witness for 12 seconds. Calls have deadlines, individual cooldowns, and cash payouts; completed call counts save in this browser. At the marina gate, press R to start Coast Run: pass Marina gate, Canal bend, Lighthouse road, and Beacon steps in order within 90 seconds. Follow the orange minimap route and the named next checkpoint. Completion pays from $650 down to a $150 minimum; timeout resets the run. H restores health for $50. C toggles the high contrast player outline and screen border. P pauses; Enter or click resumes; Escape returns to the title while paused. M shows the map marker color guide. Find Mara at the marina and deliver her package to the lighthouse. Game progress and Coast Run best time are saved in this browser. The animated canvas and changing HUD are visual and are not fully available to screen readers.</p>
 <noscript>This coastal adventure needs JavaScript enabled to run.</noscript>
 <script type="module" src="./src/main.js"></script>
 </body>

diff --git a/main.ts b/main.ts
@@ -42,6 +42,8 @@ function imageSize(bytes: Uint8Array): [number, number] | undefined {
   }
 }
 
+// Runtime feature note: city dispatch state and completion counts live in the local game save;
+// the static hand-in intentionally stages only game/ assets so dispatch stays fully offline.
 // Preflight revision 1: reject missing or malformed source inputs before staging.
 for (const required of ['index.html', 'src/main.js', 'src/render.js', 'src/world.js']) {
   const path = join(game, required);
@@ -60,6 +62,15 @@ function verifyLocalFile(base: string, specifier: string, context: string): stri
   return target;
 }
 const indexHtml = readFileSync(join(game, 'index.html'), 'utf8');
+if (!/<html\b[^>]*\blang=["'][a-z]{2,3}(?:-[A-Za-z0-9-]+)?["']/i.test(indexHtml)) {
+  throw new Error('game/index.html must declare a page language');
+}
+if (!/<canvas\b[^>]*\baria-label=["'][^"']+["']/i.test(indexHtml)) {
+  throw new Error('game canvas needs an accessible label');
+}
+if (/\b(?:src|href)=["']https?:\/\//i.test(indexHtml)) {
+  throw new Error('game/index.html must not load remote resources');
+}
 for (const match of indexHtml.matchAll(/<script\b[^>]*\bsrc=["']([^"']+)["']/gi)) {
   verifyLocalFile(game, match[1], 'game/index.html script');
 }
@@ -121,6 +132,8 @@ mkdirSync(join(out, 'screenshots'), { recursive: true });
 cpSync(screenshots, join(out, 'screenshots'), { recursive: true });
 
 // Preflight revision 2: check the staged tree, including dossier overhead, as one hand-in.
+// Keep this entrypoint's source graph local: all gameplay, dispatch markers, and HUD code must
+// resolve from game/ so a downloaded copy can be served without a build-time or network dependency.
 const stagedIndex = join(out, 'game', 'index.html');
 if (!existsSync(stagedIndex) || !lstatSync(stagedIndex).isFile()) throw new Error('staged game/index.html is missing');
 if (statSync(stagedIndex).size > 1048576) throw new Error('game/index.html exceeds the 1 MiB limit');

diff --git a/README.md b/README.md
@@ -20,22 +20,28 @@ Serve `game/` with any static HTTP server and open `game/index.html` in a deskto
 - E: enter a nearby car or exit your current car
 - Mouse movement aims; click or F fires while on foot
 - R: start or replay Coast Run while at its marina gate
+- Q: ask for a local tip; a gold pulse marks the nearest undiscovered stash for eight seconds (24-second recharge)
+- J: request the next available city dispatch; follow its colored pin and complete it before the deadline
 - H: restore health for $50 (works anywhere during play)
 - C: toggle the high contrast player outline and screen border
 - P: pause or resume; Enter also resumes; Escape returns to the title while paused
 - M: show the map marker color guide
 
-Explore on foot or take a car, find Mara by the marina, then deliver her package to the lighthouse. Patrols respond to stolen cars and gunfire; get far enough away for long enough to lose them, then stay quiet while the wanted level cools. Explore side streets for three cash stashes. Position, cash, health, story progress, and stashes save in this browser.
+Explore on foot or take a car, find Mara by the marina, then deliver her package to the lighthouse. Patrols respond to stolen cars and gunfire; get far enough away for long enough to lose them, then stay quiet while the wanted level cools. Explore side streets for three cash stashes, using Q to ask locals for a temporary lead. Position, cash, health, story progress, and stashes save in this browser.
 
 ## Coast Run
 
-Go to the marina gate and press **R** to start Coast Run. Pass its four gates in order—Marina gate, Canal bend, Lighthouse road, and Beacon steps—within 90 seconds. The HUD names the next checkpoint and shows the countdown; follow the orange route on the minimap. Completion pays $650 minus $8 per elapsed second, rounded to a whole dollar, with a $150 minimum. A timeout resets the run; return to the marina gate and press **R** to retry. Your cash and best completed time save in this browser.
+Go to the marina gate and press **R** to start Coast Run. Pass its four gates in order—Marina gate, Canal bend, Lighthouse road, and Beacon steps—within 90 seconds. The HUD names the next checkpoint and shows the countdown; follow the orange route on the minimap. Completion pays $650 minus $8 per elapsed second, rounded to a whole dollar, with a $150 minimum. A timeout resets the run; return to the marina gate and press **R** to retry. Your cash and best completed time save in this browser. Coast Run remains available alongside city dispatches.
+
+## City dispatch
+
+Press **J** during play to take the next available call. The three repeatable jobs are a stranded driver (move within service range), a medical pickup (reach the patient), and a street race witness (remain nearby for 12 seconds). Every call has a clear colored world pin, a route line and minimap target, an objective and countdown in the HUD, a cash payout, and its own cooldown. Calls time out if left unanswered; a failed call gets a shorter cooldown. Completed calls can be replayed after their cooldown, and completion counts save with the rest of your local progress. Call placements are generated from fixed seeds, so they stay stable without a server or network access.
 
 ## Accessibility
 
 Movement, driving, interactions, firing, pausing, and Coast Run can be operated from the keyboard. Press **C** during play to add a bright outline around the player and a white border around the screen; press it again to turn this high contrast mode off. The canvas has a screen reader label and a concise text description of the controls and objective. The animated game world and HUD are drawn on canvas, so their changing visual information is not exposed as a complete screen reader interface. There are no key remapping, text size, or motion reduction settings.
 
-The HUD shows health, cash, wanted level, the active objective or courier timer and checkpoint, nearby traffic, patrols, stashes, and route markers on the minimap. The game uses local files only and needs no network requests, external assets, build tools, or runtime dependencies.
+The HUD shows health, cash, wanted level, the active objective or courier timer and checkpoint, nearby traffic, patrols, stashes, city service targets, and route markers on the minimap. The game uses local files only and needs no network requests, external assets, build tools, or runtime dependencies.
 
 ## Screenshots
 
